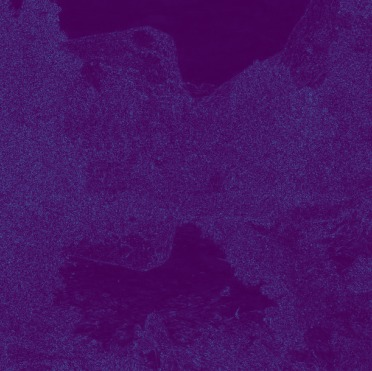
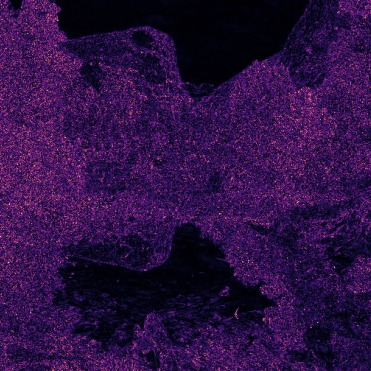
proj3: 1.4 error maps rescaled

diff --git a/280a/proj3/index.html b/280a/proj3/index.html
@@ -153,21 +153,21 @@ def velocity_diagnostics(x_t, t, clean_image, epsilon, condition, predict_veloci
         <figure><img src="images/a/vel-25-0.jpg" loading="lazy" decoding="async" alt="Noisy. t = 0.25" width="372" height="371"><figcaption><b>Noisy</b>t = 0.25</figcaption></figure>
         <figure><img src="images/a/vel-25-1.jpg" loading="lazy" decoding="async" alt="Predicted update" width="372" height="371"><figcaption><b>Predicted update</b></figcaption></figure>
         <figure><img src="images/a/vel-25-2.jpg" loading="lazy" decoding="async" alt="True update" width="372" height="371"><figcaption><b>True update</b></figcaption></figure>
-        <figure><img src="images/a/vel-25-3.jpg" loading="lazy" decoding="async" alt="Error. RGB RMS" width="372" height="371"><figcaption><b>Error</b>RGB RMS</figcaption></figure>
+        <figure><img src="images/a/vel-25-3.jpg" loading="lazy" decoding="async" alt="Error. RGB RMS" width="371" height="371"><figcaption><b>Error</b>RGB RMS</figcaption></figure>
       </div>
       <div class="row keep" style="--n:4">
         <figure><img src="images/a/vel-50-0.jpg" loading="lazy" decoding="async" alt="Noisy. t = 0.50" width="372" height="371"><figcaption><b>Noisy</b>t = 0.50</figcaption></figure>
         <figure><img src="images/a/vel-50-1.jpg" loading="lazy" decoding="async" alt="Predicted update" width="372" height="371"><figcaption><b>Predicted update</b></figcaption></figure>
         <figure><img src="images/a/vel-50-2.jpg" loading="lazy" decoding="async" alt="True update" width="372" height="371"><figcaption><b>True update</b></figcaption></figure>
-        <figure><img src="images/a/vel-50-3.jpg" loading="lazy" decoding="async" alt="Error" width="372" height="371"><figcaption><b>Error</b></figcaption></figure>
+        <figure><img src="images/a/vel-50-3.jpg" loading="lazy" decoding="async" alt="Error" width="371" height="371"><figcaption><b>Error</b></figcaption></figure>
       </div>
       <div class="row keep" style="--n:4">
         <figure><img src="images/a/vel-75-0.jpg" loading="lazy" decoding="async" alt="Noisy. t = 0.75" width="372" height="371"><figcaption><b>Noisy</b>t = 0.75</figcaption></figure>
         <figure><img src="images/a/vel-75-1.jpg" loading="lazy" decoding="async" alt="Predicted update" width="372" height="371"><figcaption><b>Predicted update</b></figcaption></figure>
         <figure><img src="images/a/vel-75-2.jpg" loading="lazy" decoding="async" alt="True update" width="372" height="371"><figcaption><b>True update</b></figcaption></figure>
-        <figure><img src="images/a/vel-75-3.jpg" loading="lazy" decoding="async" alt="Error" width="372" height="371"><figcaption><b>Error</b></figcaption></figure>
+        <figure><img src="images/a/vel-75-3.jpg" loading="lazy" decoding="async" alt="Error" width="371" height="371"><figcaption><b>Error</b></figcaption></figure>
       </div>
-      <p class="note">All three error maps share one colour scale, from 0 (dark purple) to the largest error over the three.</p>
+      <p class="note">All three error maps share one colour scale, <span class="cbar" aria-hidden="true"></span> from 0 (black) to 0.5 (pale yellow), about the 99th percentile of the errors. Scaling to the single largest error, 1.46, left the maps almost black.</p>
     </section>
     <section class="part" id="euler">
       <header class="part-head">

diff --git a/280a/proj3/project.css b/280a/proj3/project.css
@@ -733,3 +733,7 @@
 .hyb-sizes figure.tiny img { width: 64px; height: 64px; background: none; }
 .hyb-sizes { align-items: end; }
 @media print { .hyb-sizes figure.tiny img { width: 0.9cm; height: 0.9cm; } }
+
+/* Inline key for the magma colour scale of the 1.4 error maps. */
+.cbar { display: inline-block; width: 5.5rem; height: 0.7em; vertical-align: -0.05em; margin: 0 0.15rem; border-radius: 2px;
+  background: linear-gradient(90deg, #000004, #3b0f70 20%, #8c2981 40%, #de4968 60%, #fe9f6d 80%, #fcfdbf); }
